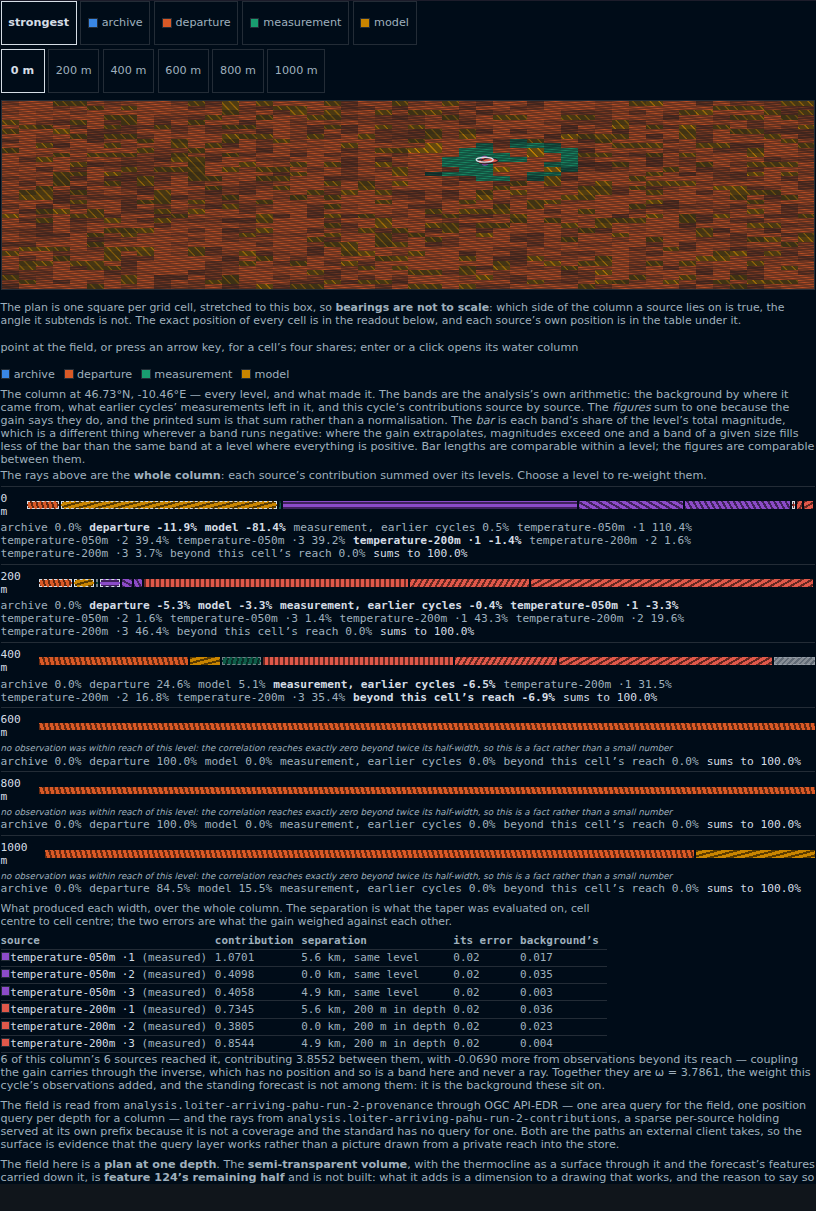
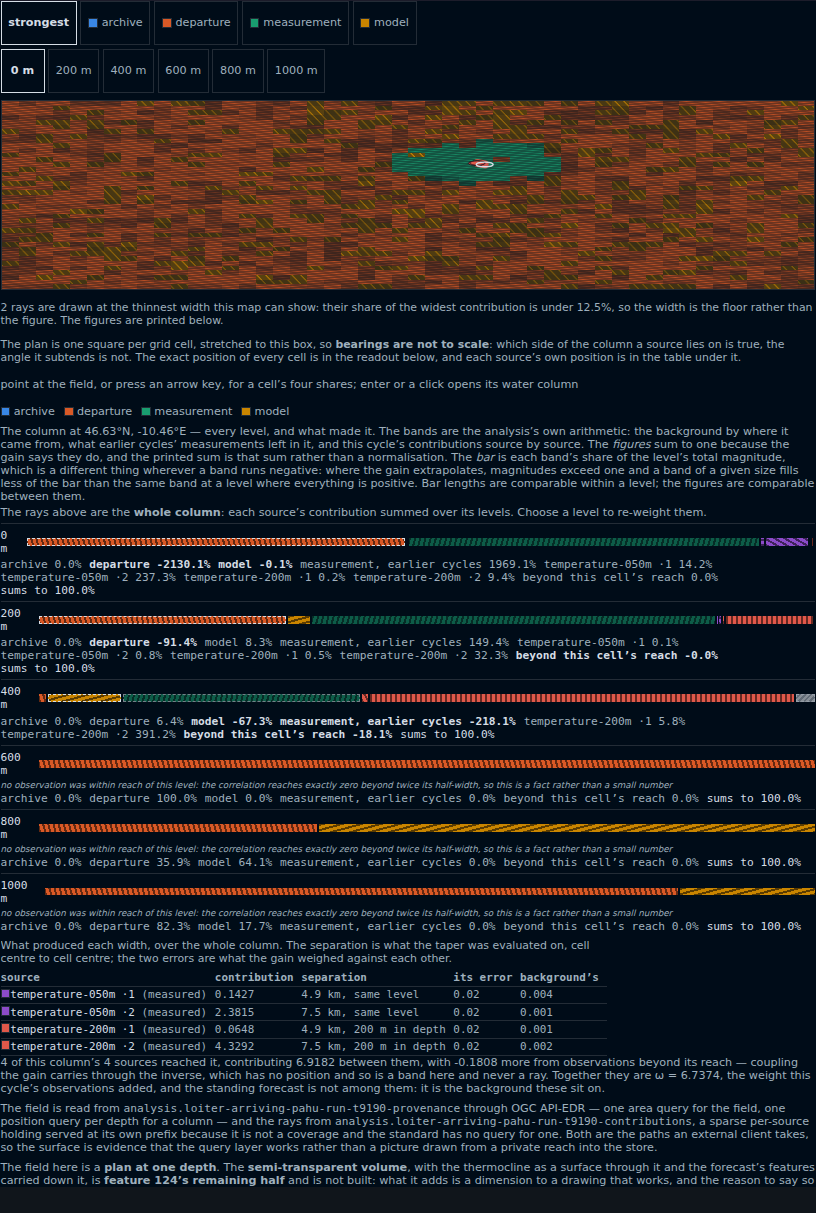
124: warm by cycles this capture drove, not by the store's total
CI failed twice on `capture:forecast`, and the second failure named the state
rather than the selector, which is what made the cause findable: "no analysis
has been announced yet".

The warm loop counted contributions holdings in the store as a *total*, and the
store does not start empty of them. `arriving`'s pre-roll publishes several
analysis cycles before the pin, and since feature 125 regenerated the seed
artefacts the snapshot carries them too. `seen >= cycles` was true on burst 0,
the loop stepped nothing, no analysis was ever announced, and the region stood
at its no-analysis sentence while the sidecar was ready to record "until 3
analysis cycles had published". It passed most of the time only because the
panel is usually mounted during the pre-roll and catches an announcement from
it; on a slow runner it mounts too late and there is no later one, ever.
Counted as an increase over what the page started with, it is the number of
cycles this capture actually drove.

The settle loop also did not read its own step responses. CLAUDE.md records
this script asking 120 ticks against a bound of 60, every step refused, the
simulation advancing by nothing, and the failure surfacing as a picture rather
than an error — because the response was not read. Twenty bursts that advanced
nothing look exactly like twenty that did. Read now, and a refusal throws.

Watched failing: the absolute count planted back reproduces CI's error verbatim
[…]

diff --git a/scripts/capture/forecast.ts b/scripts/capture/forecast.ts
@@ -371,14 +371,25 @@ try {
       cycles: number;
       budget: number;
     }) => {
+      // **Counted as an increase over what the page started with, not as a total.** The
+      // predicate was `seen >= cycles` against the whole store, which assumes the store starts
+      // empty of contributions holdings. It does not: a start condition's seed snapshot carries
+      // its pre-roll, and once feature 125 regenerated those artefacts the seed carried the
+      // analysis holdings too. The loop then exited on burst 0 without stepping once, no analysis
+      // was ever announced, and the region stood at "no analysis has been announced yet" while
+      // the sidecar was ready to record "until 3 analysis cycles had published". The count has to
+      // be of cycles *this capture drove*, which is the difference.
+      let baseline = -1;
       let seen = 0;
       let burst = 0;
       for (; burst < budget; burst++) {
         const inventory = await (await fetch("/api/ctl/holdings")).json();
-        seen = inventory.holdings.filter(
+        const held = inventory.holdings.filter(
           (holding: { field: { format: string } }) =>
             holding.field.format === "drogna-contributions-v1",
         ).length;
+        if (baseline < 0) baseline = held;
+        seen = held - baseline;
         if (seen >= cycles) break;
         const response = await fetch("/api/ctl/clock/step", {
           method: "POST",
@@ -429,15 +440,24 @@ try {
        .then(() => true)
        .catch(() => false);
      if (up) break;
-     await page.evaluate(
+     // **The response is read.** `CLAUDE.md` records this script's first version asking for 120
+     // ticks against a declared bound of 60, so every step was refused, the simulation advanced
+     // by nothing, and the failure surfaced as a picture rather than an error — because the
+     // response was not read. A settle loop that ignores its own refusals is that fault again:
+     // twenty bursts that all advanced nothing look exactly like twenty bursts that did.
+     const stepped = await page.evaluate(
        async (ticks: number) => {
-         await fetch("/api/ctl/clock/step", {
+         const response = await fetch("/api/ctl/clock/step", {
            method: "POST",
            body: JSON.stringify({ ticks }),
          });
+         return response.ok ? "" : `${response.status} ${await response.text()}`;
        },
        stepTicks,
      );
+     if (stepped) {
+       throw new Error(`the step endpoint refused while waiting for the field: ${stepped}`);
+     }
    }
    if (settling >= SETTLE_BURSTS) {
      const said = await page
@@ -509,7 +529,7 @@ try {
     rays_drawn: picked.rays,
     column:
       "read off the served contributions header, so it is a column an instrument reached",
-    warmed: `stepped in bursts of ${stepTicks} ticks at rate 0 until ${cycles} analysis cycles had published (${warmed.bursts} bursts), then ${settling} further burst(s) until the field was drawn`,
+    warmed: `stepped in bursts of ${stepTicks} ticks at rate 0 until ${cycles} analysis cycles had published beyond the seed's own (${warmed.bursts} bursts), then ${settling} further burst(s) until the field was drawn`,
     viewport: { width, height: shotHeight },
     // **Read out of the file's own header, not off the element's box.** These disagreed —
     // 388x1592 recorded for a 390x1593 file — because the box is CSS pixels before rounding and

diff --git a/site/docs/blog/posts/the-weights-were-there-and-thrown-away.md b/site/docs/blog/posts/the-weights-were-there-and-thrown-away.md
@@ -44,21 +44,25 @@ from: a band, not a ray.
 depth control reading 0, 200, 400, 600, 800 and 1000 metres — the analysis's own levels — with 0 m
 chosen. Below it a map of the grid at that depth, mostly rust-coloured hatching where the
 departure forecast still dominates the field, with a green patch where the platform has been
-sampling; a pale ring marks the picked column and the six instrument-sources that reached it are
+sampling; a pale ring marks the picked column and the four instrument-sources that reached it are
 marked immediately beside it, because the platform's two instruments sample the cells it is
-crossing and every source is within a cell or two of the column. Under the map a line stating
+crossing and every source is within a cell or two of the column. Under the map a line saying two
+of the rays are drawn at the thinnest width the map can show, their share of the widest
+contribution being under 12.5%, so the width is a floor rather than a figure; then a line stating
 that the plan is one square per grid cell stretched to the box, so which side of the column a
-source lies on is true and the angle it subtends is not. Beneath that a depth profile, one stacked bar of hatched bands per level
-with its figures printed underneath. At 0 m: archive 0.0%, departure −11.9%, model −81.4%,
-measurement from earlier cycles 0.5%, then this cycle's six sources — the 50 m instrument's three
-casts at 110.4%, 39.4% and 39.2%, the 200 m instrument's three at −1.4%, 1.6% and 3.7% — and
-beyond this cell's reach 0.0%, summing to 100.0%. The bands run in the same order as the
-table at the foot. At 600 m, 800 m and
-1000 m an italic line states that no observation was within reach of that level, because the
-correlation reaches exactly zero beyond twice its half-width; the 600 m and 800 m bars are the
-departure forecast alone at 100.0%, and the 1000 m bar is departure 84.5% beside model 15.5%. At the foot a table of what produced each width: each source with its
-contribution, its separation from the cell in kilometres and in depth, its own declared error and
-the forecast's at that cell.](../assets/124-what-a-number-is-made-of.png)
+source lies on is true and the angle it subtends is not. Beneath that a depth profile, one stacked
+bar of hatched bands per level with its figures printed underneath. At 0 m the gain extrapolates
+hard: archive 0.0%, departure −2130.1%, model −0.1%, measurement from earlier cycles 1969.1%, then
+this cycle's four sources — the 50 m instrument's two casts at 14.2% and 237.3%, the 200 m
+instrument's two at 0.2% and 9.4% — and beyond this cell's reach 0.0%, summing to 100.0%. The
+bands run in the same order as the table at the foot. At 600 m, 800 m and 1000 m an italic line
+states that no observation was within reach of that level, because the correlation reaches exactly
+zero beyond twice its half-width; the 600 m bar is the departure forecast alone at 100.0%, and the
+800 m and 1000 m bars are departure beside model at 35.9%/64.1% and 82.3%/17.7%. At the foot a
+table of what produced each width: each source with its contribution, its separation from the cell
+in kilometres and in depth, its own declared error and the forecast's at that cell — and a closing
+line reading that 4 of this column's 4 sources reached it, contributing 6.9182 between them, with
+−0.1808 more from observations beyond its reach, together ω = 6.7374.](../assets/124-what-a-number-is-made-of.png)
 
 Pick a square. The lines are the instruments that reached that column, each as wide as it
 counted; pick a depth and they re-weight without moving. Every figure is printed too: a platform

diff --git a/specs/124-forecast-illustration/tasks.md b/specs/124-forecast-illustration/tasks.md
@@ -1151,6 +1151,38 @@ the part worth recording, because each was a sentence asserting a property the c
       read the previous pass started. Guarded on the readout being absent, so the click fires once
       and then only after a cycle has actually cleared the pick.
 
+- [x] T022aa **CI failed twice on the capture, and the diagnosis was not the one the first fix
+      assumed.** The wait for the share field was made to drive rather than wait, on the reading
+      that the region had spent its one axis-ask for the last cycle. The real fault is one level
+      earlier and simpler: **the warm loop counted contributions holdings in the store as a
+      total**, and the store does not start empty of them. `arriving`'s pre-roll publishes several
+      analysis cycles before the pin, and — once feature 125 regenerated the seed artefacts — the
+      snapshot carries them too. `seen >= cycles` was therefore true on burst 0, the loop stepped
+      *nothing*, no analysis was ever announced, and the region stood at "no analysis has been
+      announced yet" while the sidecar was ready to record "until 3 analysis cycles had
+      published". It passed most of the time only because the panel is usually mounted during the
+      pre-roll and catches an announcement from it; on a slow runner it mounts too late and there
+      is no later one, ever. Counted as an increase over what the page started with, it is the
+      number of cycles this capture actually drove.
+
+      Watched failing: the absolute count planted back reproduces CI's own error verbatim —
+      *"no share field was drawn after 3 cycles and 20 further bursts; the region says: no
+      analysis has been announced yet"* — and the merged tree passes with the difference.
+
+      **And the settle loop did not read its own step responses.** `CLAUDE.md` records this exact
+      script asking for 120 ticks against a bound of 60, so every step was refused and the
+      simulation advanced by nothing, with the failure surfacing as a picture rather than an
+      error — because the response was not read. Twenty bursts that all advanced nothing look
+      exactly like twenty that did. Read now, and a refusal throws.
+
+      The drive-rather-than-wait change is kept: it is what turned the second failure from a bare
+      selector timeout into a sentence naming the state, and that sentence is what made the real
+      cause findable.
+
+      **The picture changed under the merge**, from six sources to four and to a level where the
+      gain extrapolates hard, so the entry's alt text is rewritten against the picture actually
+      taken rather than the one it described.
+
 ## What this branch leaves undone, and why
 
       Written here rather than only in the pull request, because the reason is the part that cannot
